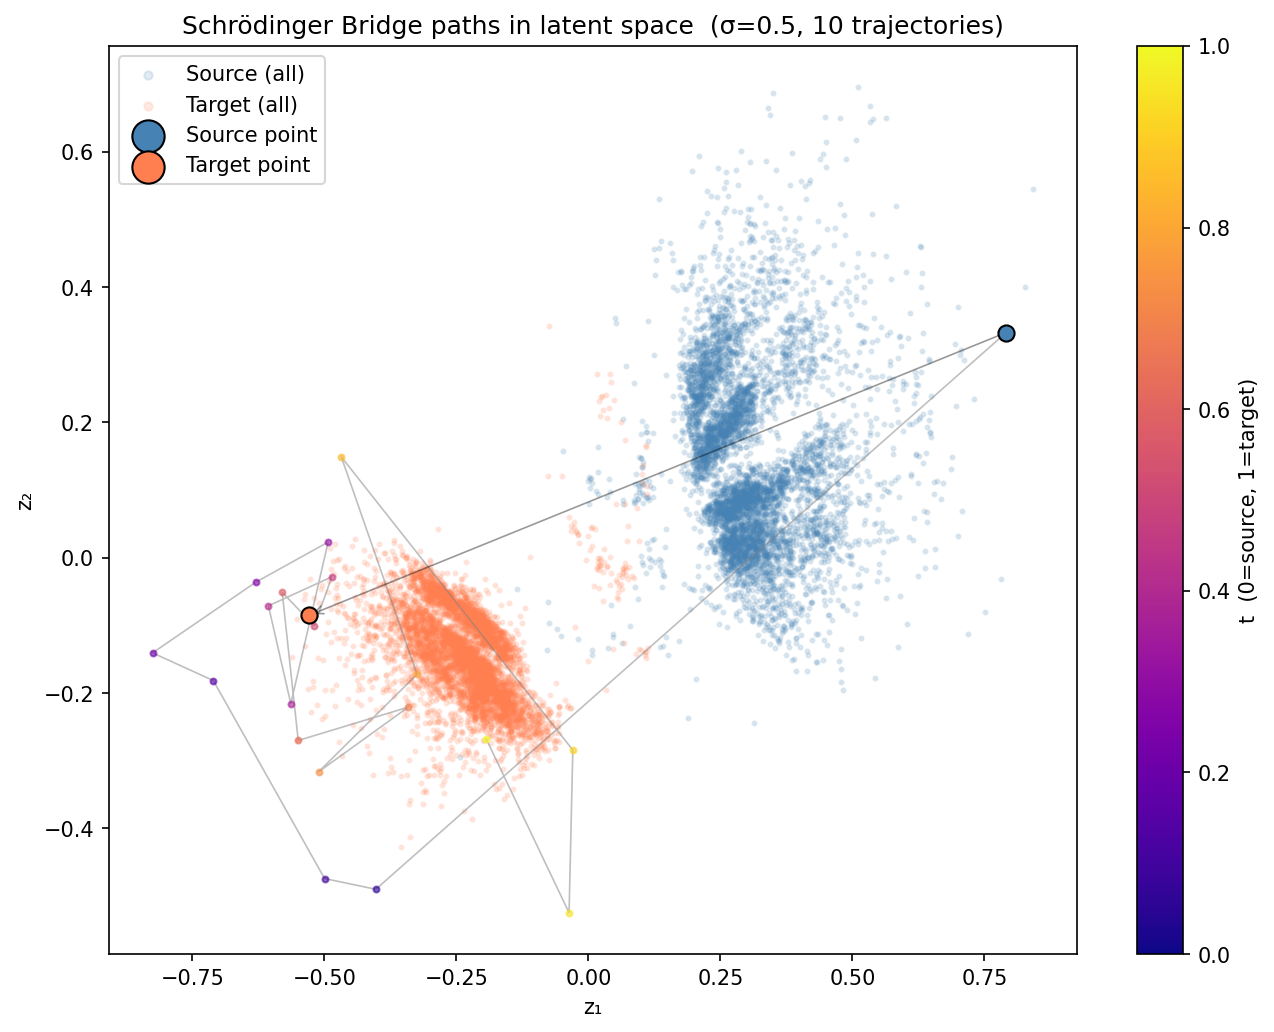
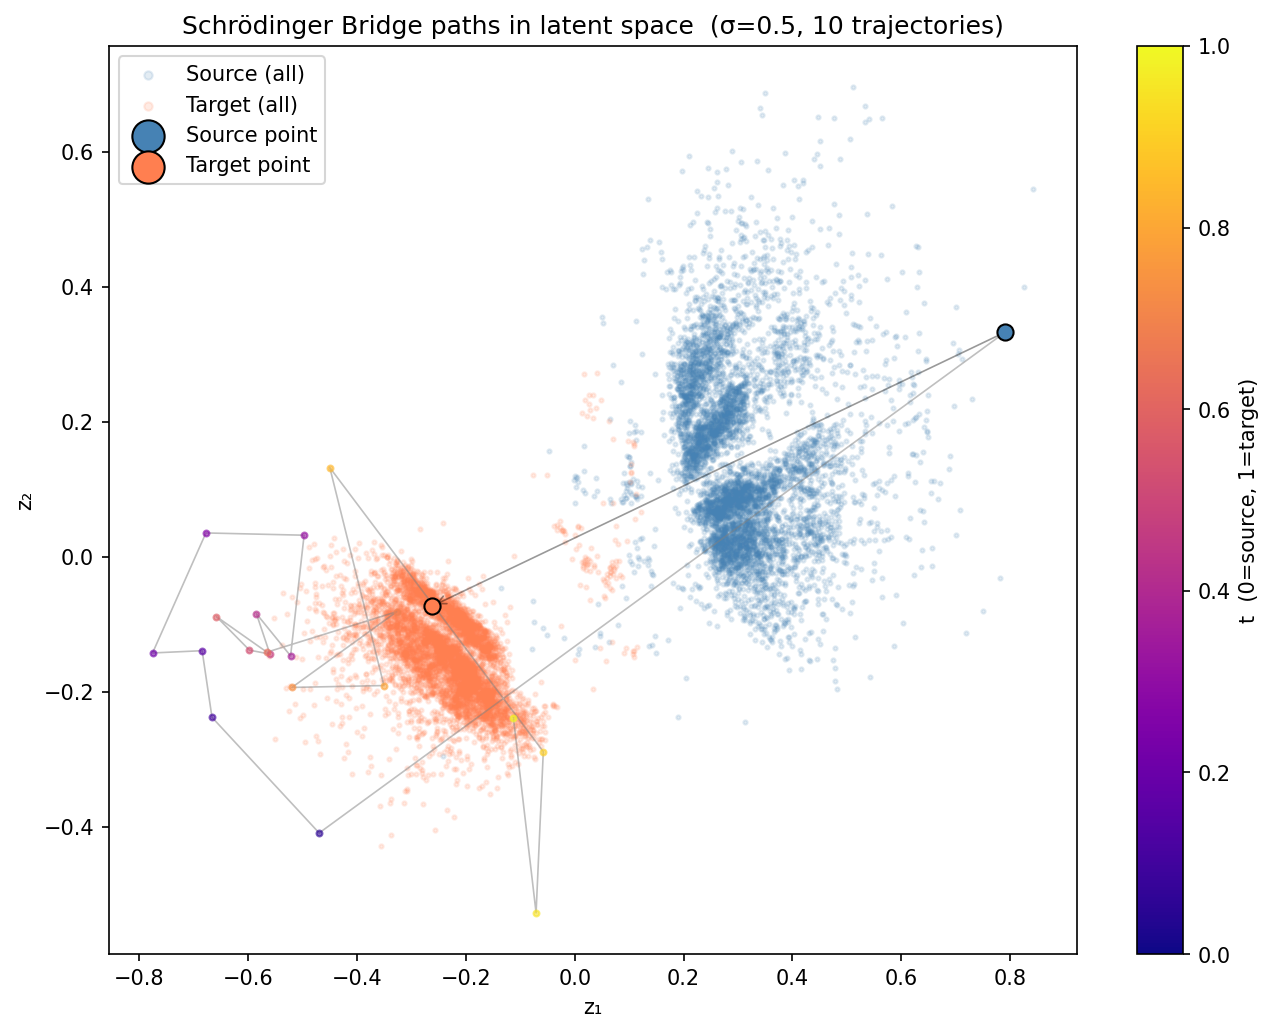
hyper

diff --git a/src/main_project/schrodinger_bridge.py b/src/main_project/schrodinger_bridge.py
@@ -57,14 +57,14 @@ class SchrodingerBridge:
         weights_y: Optional[jnp.array] = None,
     ) -> "SchrodingerBridge":
 
-        X = jnp.asarray(latent_source, dtype=jnp.float32)
-        Y = jnp.asarray(latent_target, dtype=jnp.float32)
+        S = jnp.asarray(latent_source, dtype=jnp.float32)
+        D = jnp.asarray(latent_target, dtype=jnp.float32)
 
-        m, d = X.shape
-        n, _ = Y.shape
+        m, d = S.shape
+        n, _ = D.shape
 
-        self.X = X
-        self.Y = Y
+        self.S = S
+        self.D = D
         self.d = d
 
         self.weights_x = weights_x if weights_x is not None else jnp.ones(m) / m
@@ -91,7 +91,7 @@ class SchrodingerBridge:
             # Forward pass — enforce source marginal
             for i in tqdm(range(self.n_steps - 1), desc="  Forward ", leave=False):
                 t_step   = self.t[i + 1] - self.t[i]
-                K        = gaussian_kernel(self.X, self.Y, t_step, self.sigma, self.d)
+                K        = gaussian_kernel(self.S, self.D, t_step, self.sigma, self.d)
                 v_scaled = self.weights_y * jnp.exp(self.log_v[i + 1])
                 self.log_u = self.log_u.at[i].set(
                     jnp.log(self.weights_x) - jnp.log(K @ v_scaled + 1e-16)
@@ -100,7 +100,7 @@ class SchrodingerBridge:
             # Backward pass — enforce target marginal
             for i in tqdm(range(self.n_steps - 1, 0, -1), desc="  Backward", leave=False):
                 t_step   = self.t[i] - self.t[i - 1]
-                K        = gaussian_kernel(self.X, self.Y, t_step, self.sigma, self.d)
+                K        = gaussian_kernel(self.S, self.D, t_step, self.sigma, self.d)
                 u_scaled = self.weights_x * jnp.exp(self.log_u[i - 1])
                 self.log_v = self.log_v.at[i].set(
                     jnp.log(self.weights_y) - jnp.log(K.T @ u_scaled + 1e-16)
@@ -119,7 +119,7 @@ class SchrodingerBridge:
         self.history_ = {"num_iter": iteration + 1, "errors": errors}
 
     def get_transport_plan(self) -> jnp.array:
-        K = gaussian_kernel(self.X, self.Y, 1.0, self.sigma, self.d)
+        K = gaussian_kernel(self.S, self.D, 1.0, self.sigma, self.d)
         u = jnp.exp(self.log_u[0])
         v = jnp.exp(self.log_v[-1])
         P = self.weights_x[:, None] * u[:, None] * K * v[None, :] * self.weights_y[None, :]
@@ -138,14 +138,14 @@ class SchrodingerBridge:
         decoded      = np.zeros((n_samples, self.n_steps, 784))
 
         for s in tqdm(range(n_samples), desc="Sampling trajectories"):
-            x_current = np.array(self.X[rows[s]])
+            x_current = np.array(self.S[rows[s]])
             trajectories[s, 0] = x_current
 
             for i in range(self.n_steps - 1):
                 t_step = float(self.t[i+1] - self.t[i])
                 K      = np.array(gaussian_kernel(
                             jnp.array(x_current[None]),
-                            self.Y, t_step, self.sigma, self.d
+                            self.D, t_step, self.sigma, self.d
                         ))  # [1, n]
 
                 # Use learned v potential to weight transitions — this is the curvature
@@ -157,8 +157,8 @@ class SchrodingerBridge:
                 weights  = weights / weights.sum()
 
                 # Sample next anchor point from target according to weights
-                j        = np.random.choice(len(self.Y), p=weights)
-                anchor   = np.array(self.Y[j])
+                j        = np.random.choice(len(self.D), p=weights)
+                anchor   = np.array(self.D[j])
 
                 # Step toward anchor with small Brownian noise
                 key, sub = jax.random.split(key)
@@ -215,34 +215,34 @@ class SchrodingerBridge:
         source_idx   = result["source_idx"]
         target_idx   = result["target_idx"]
 
-        X_np = np.array(self.X)
-        Y_np = np.array(self.Y)
-        d    = X_np.shape[1]
+        S_np = np.array(self.S)
+        D_np = np.array(self.D)
+        d    = S_np.shape[1]
 
         # --- Project to 2D if needed ---
         if d > 2:
-            all_points = np.vstack([X_np, Y_np])
+            all_points = np.vstack([S_np, D_np])
             pca        = PCA(n_components=2).fit(all_points)
-            X_2d       = pca.transform(X_np)
-            Y_2d       = pca.transform(Y_np)
+            S_2d       = pca.transform(S_np)
+            D_2d       = pca.transform(D_np)
             paths_2d   = np.stack([
                 pca.transform(trajectories[s])   # [n_steps, 2]
                 for s in range(len(trajectories))
             ])
             axis_labels = ("PC1", "PC2")
         else:
-            X_2d       = X_np
-            Y_2d       = Y_np
+            S_2d       = S_np
+            D_2d       = D_np
             paths_2d   = trajectories[:, :, :2]
             axis_labels = ("z₁", "z₂")
 
         fig, ax = plt.subplots(figsize=(9, 7))
 
         # --- Background cloud: all source and target points ---
-        ax.scatter(X_2d[:, 0], X_2d[:, 1],
+        ax.scatter(S_2d[:, 0], S_2d[:, 1],
                 color="steelblue", alpha=0.15, s=point_size, zorder=0,
                 label="Source (all)")
-        ax.scatter(Y_2d[:, 0], Y_2d[:, 1],
+        ax.scatter(D_2d[:, 0], D_2d[:, 1],
                 color="coral", alpha=0.15, s=point_size, zorder=0,
                 label="Target (all)")
 
@@ -261,12 +261,12 @@ class SchrodingerBridge:
                         color=color, s=8, alpha=0.6, zorder=2)
 
             # Source endpoint
-            x0 = X_2d[source_idx[s]]
+            x0 = S_2d[source_idx[s]]
             ax.scatter(*x0, color="steelblue", edgecolors="black",
                     s=60, zorder=4, label="Source point" if s == 0 else "")
 
             # Target endpoint
-            x1 = Y_2d[target_idx[s]]
+            x1 = D_2d[target_idx[s]]
             ax.scatter(*x1, color="coral", edgecolors="black",
                     s=60, zorder=4, label="Target point" if s == 0 else "")
 

diff --git a/src/main_project/hyperparameter_optimization.py b/src/main_project/hyperparameter_optimization.py
@@ -1,0 +1,23 @@
+import equinox as eqx
+import jax
+from main_project.model import AEv2
+from main_project.train import train_model
+
+
+
+def objective(trial):
+    hidden_dim = trial.suggest_int("hidden_dim", 16, 128, log=True)
+    
+    learning_rate = trial.suggest_float("learning_rate", 1e-4, 1e-2, log=True)
+    batch_size = trial.suggest_categorical("batch_size", [32, 64, 128])
+
+    # Initialize model and train
+    seed = 3456
+    key = jax.random.PRNGKey(seed)
+    key, subkey = jax.random.split(key, 2)
+    model = AEv2(subkey, latent_dim=latent_dim)
+
+    # Train the model and return the validation loss
+    val_loss = train_model(model, learning_rate=learning_rate, batch_size=batch_size)
+    
+    return val_loss
